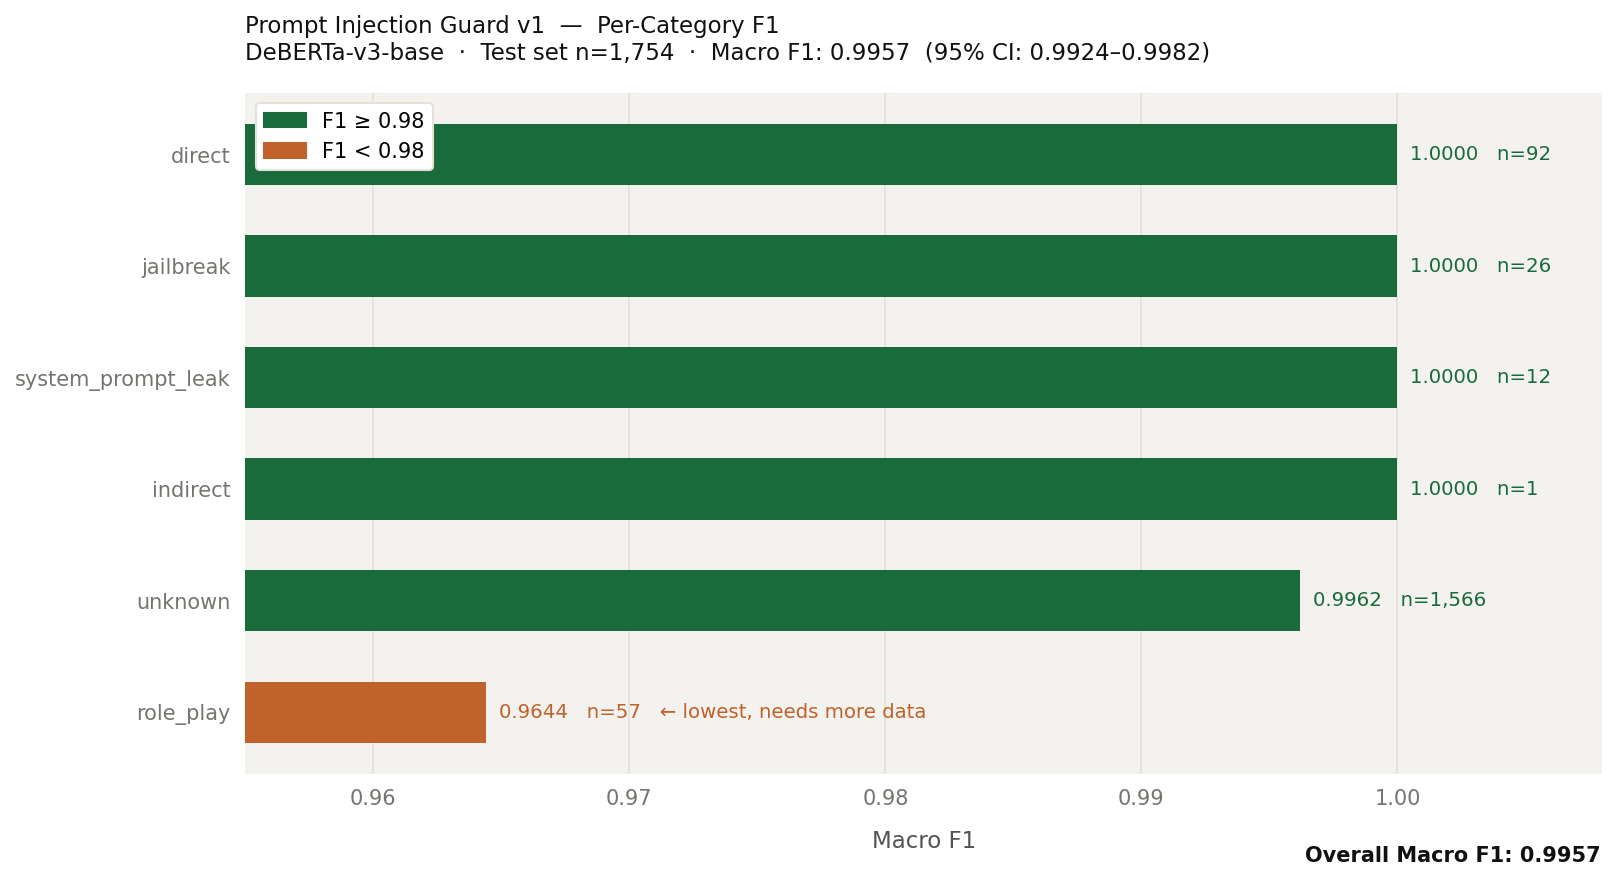
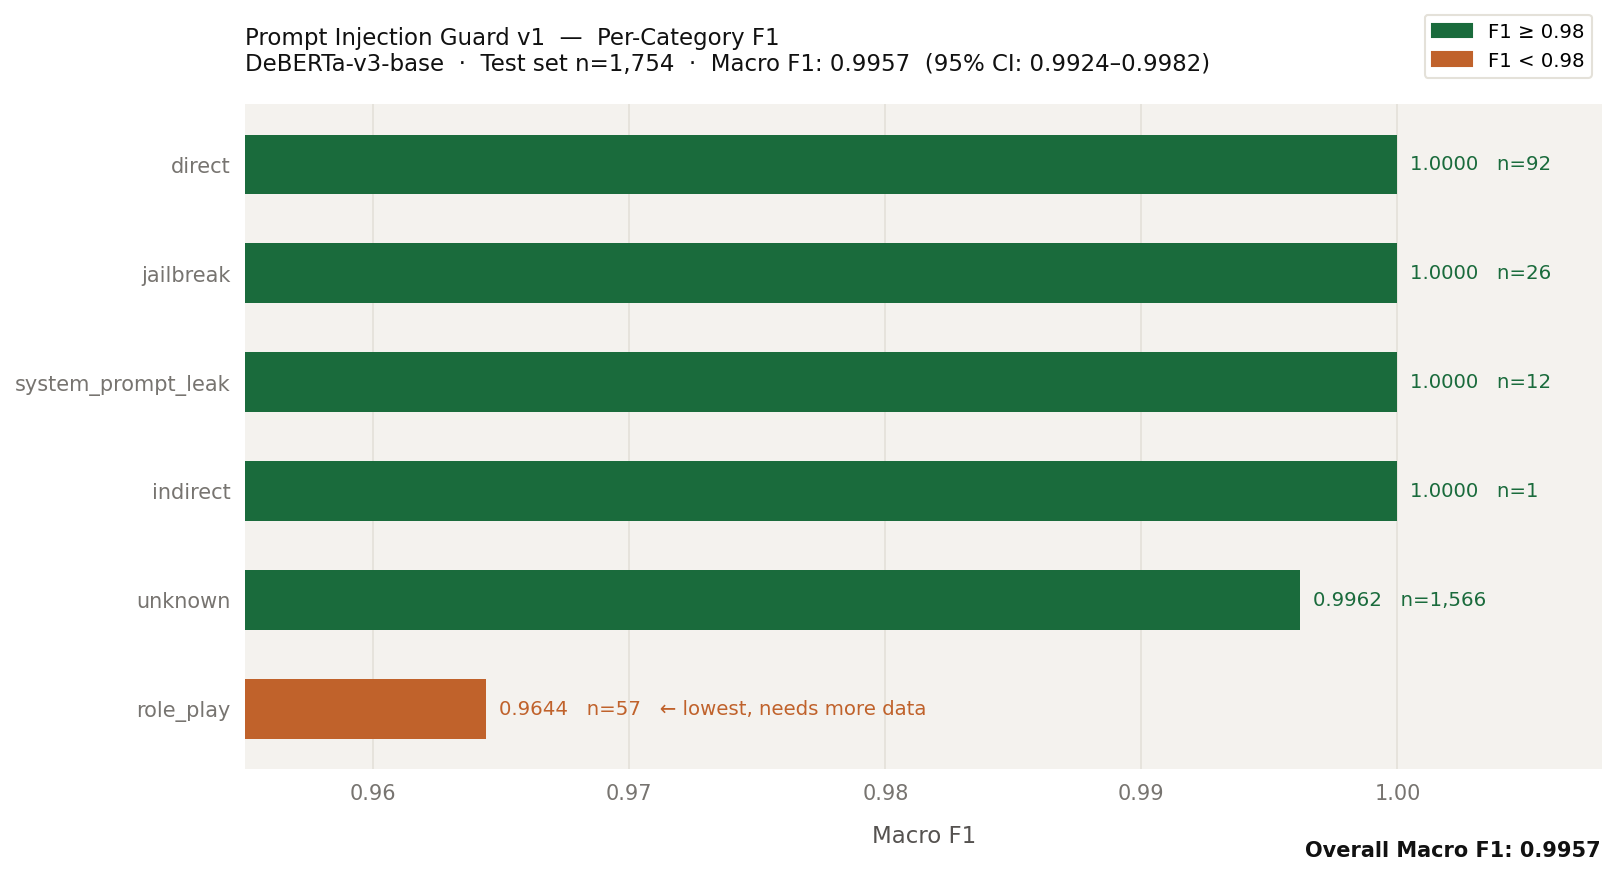
feat: LinkedIn post 1 published, final per-category F1 chart

diff --git a/scripts/plot_v1_results.py b/scripts/plot_v1_results.py
@@ -59,8 +59,9 @@ green_patch = mpatches.Patch(color="#1A6B3C", label="F1 ≥ 0.98")
 orange_patch = mpatches.Patch(color="#C0622B", label="F1 < 0.98")
 ax.legend(
     handles=[green_patch, orange_patch],
-    loc="upper left",
-    fontsize=10,
+    loc="upper right",
+    bbox_to_anchor=(1.0, 1.15),
+    fontsize=9.5,
     frameon=True,
     framealpha=1,
     edgecolor="#E4E1D9",
